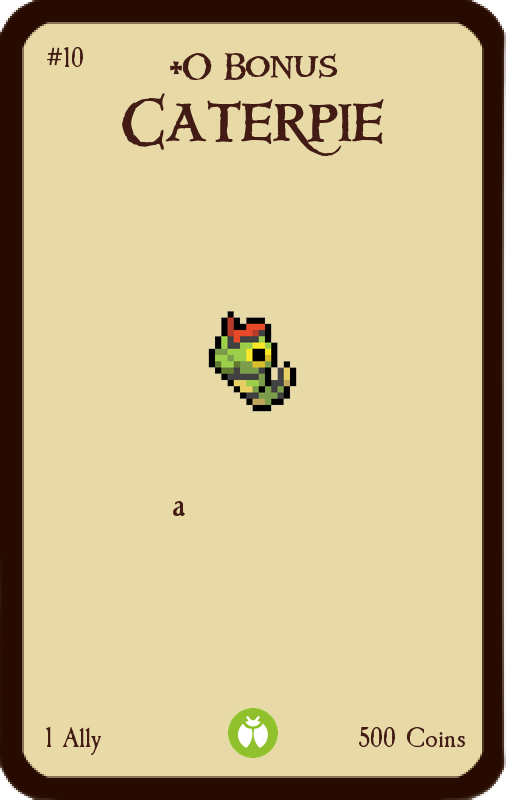
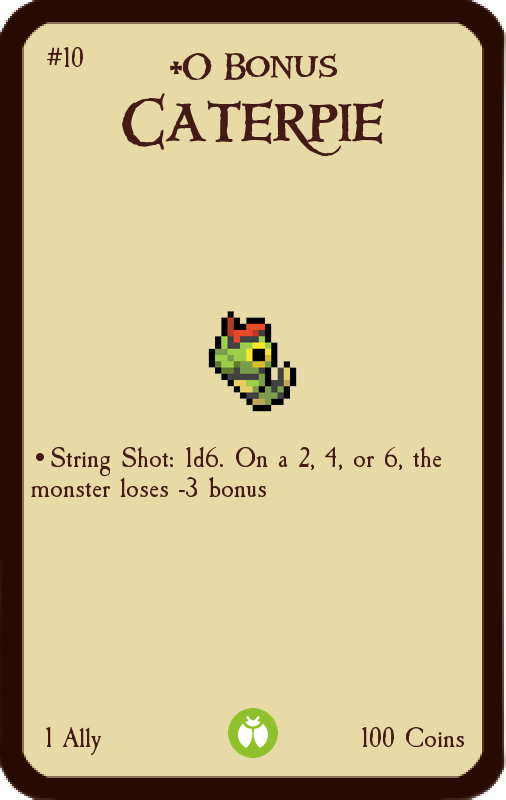
Added a way (not so good) for a constant text position

diff --git a/src/text.py b/src/text.py
@@ -6,13 +6,12 @@ class Text():
 
     FONT_FILE_EXTENSION = ".ttf"
 
-    def __init__(self, text: str, font: str, color: tuple, size: int, position_percent: tuple, fixed_position: tuple = None):
+    def __init__(self, text: str, font: str, color: tuple, size: int, position_percent: tuple):
         self._text = text
         self._font_path = self.FONTS_PATH + font + self.FONT_FILE_EXTENSION
         self._color = color
         self._size = size
         self._position_percent = position_percent
-        self._fixed_position = fixed_position
 
     def add_text_to_image(self, draw_ctx, image_size: tuple):
         try:
@@ -21,9 +20,19 @@ class Text():
             text_font = ImageFont.load_default()
 
         # TODO: width should be an input
-        lines = textwrap.wrap(self._text, width=27)
+        lines = textwrap.wrap(self._text, width=42)
         text_width = draw_ctx.textlength(lines[0], font=text_font)
-        fixed_position = (int((image_size[0] - text_width) * self._position_percent[0]), int(image_size[1] * self._position_percent[1]))
+
+        if self._position_percent[0] < 1:
+            fixed_position_x = int((image_size[0] - text_width) * self._position_percent[0])
+        else:
+            fixed_position_x = self._position_percent[0]
+        if self._position_percent[1] < 1:
+            fixed_position_y = int(image_size[1] * self._position_percent[1])
+        else:
+            fixed_position_y = self._position_percent[1]
+        fixed_position = (fixed_position_x, fixed_position_y)
+
         for line in lines:
             draw_ctx.text(fixed_position, line, fill=self._color, font=text_font)
             fixed_position = (fixed_position[0], fixed_position[1] + self._size)

diff --git a/src/pokemon_munchkin_generator.py b/src/pokemon_munchkin_generator.py
@@ -1,3 +1,5 @@
+import os.path
+
 from notion_api import NotionAPI
 from pokemon_munchkin_card import PokemonMunchkinCard
 
@@ -28,10 +30,14 @@ MUNCHKIN_POKEMON_TYPES = {
 def main():
     api = NotionAPI(NOTION_API_KEY)
     all_pages = api.get_all_pages_database(MUNCHKIN_DATABASE_ID)
-    # print(all_pages[0])
+    all_pages.reverse()
     for page in all_pages:
         page_properties = page["properties"]
+        if os.path.isfile("..\\output\\" + page_properties["Name"]["title"][0]["text"]["content"].lower() + ".png"):
+            continue
         page_content = api.get_page_content(page["id"])
+        if page_content == []:
+            return
 
         munchkin_card = PokemonMunchkinCard(
             card_title = page_properties["Name"]["title"][0]["text"]["content"],
@@ -43,7 +49,6 @@ def main():
             dex_number=page_properties["Dex Number"]["number"]
         )
         munchkin_card.create_card()
-        return
 
 if __name__ == "__main__":
     main()

diff --git a/src/pokemon_munchkin_card.py b/src/pokemon_munchkin_card.py
@@ -37,8 +37,14 @@ class PokemonMunchkinCard(MunchkinCard):
         ]
 
         description_all = ""
-        for block in description_blocks:
-            description_all += "• " + block["bulleted_list_item"]["rich_text"][0]["plain_text"] + "                                        "
+        if description_blocks == []:
+            description_all = "aaa"
+        else:
+            for block in description_blocks:
+                try:
+                    description_all += "•" + block["bulleted_list_item"]["rich_text"][0]["plain_text"] + "                                                    "
+                except Exception:
+                    ...
 
         super().__init__(
             card_title=card_title,

diff --git a/src/munchkin_card.py b/src/munchkin_card.py
@@ -32,8 +32,8 @@ class MunchkinCard(Card):
             text=description_text,
             font=self.BODY_FONT,
             color=self.FONT_COLOR,
-            size=40,
-            position_percent=(0.35, 0.55)
+            size=30,
+            position_percent=(30, 0.55)
         ))
 
         texts.append(Text(
